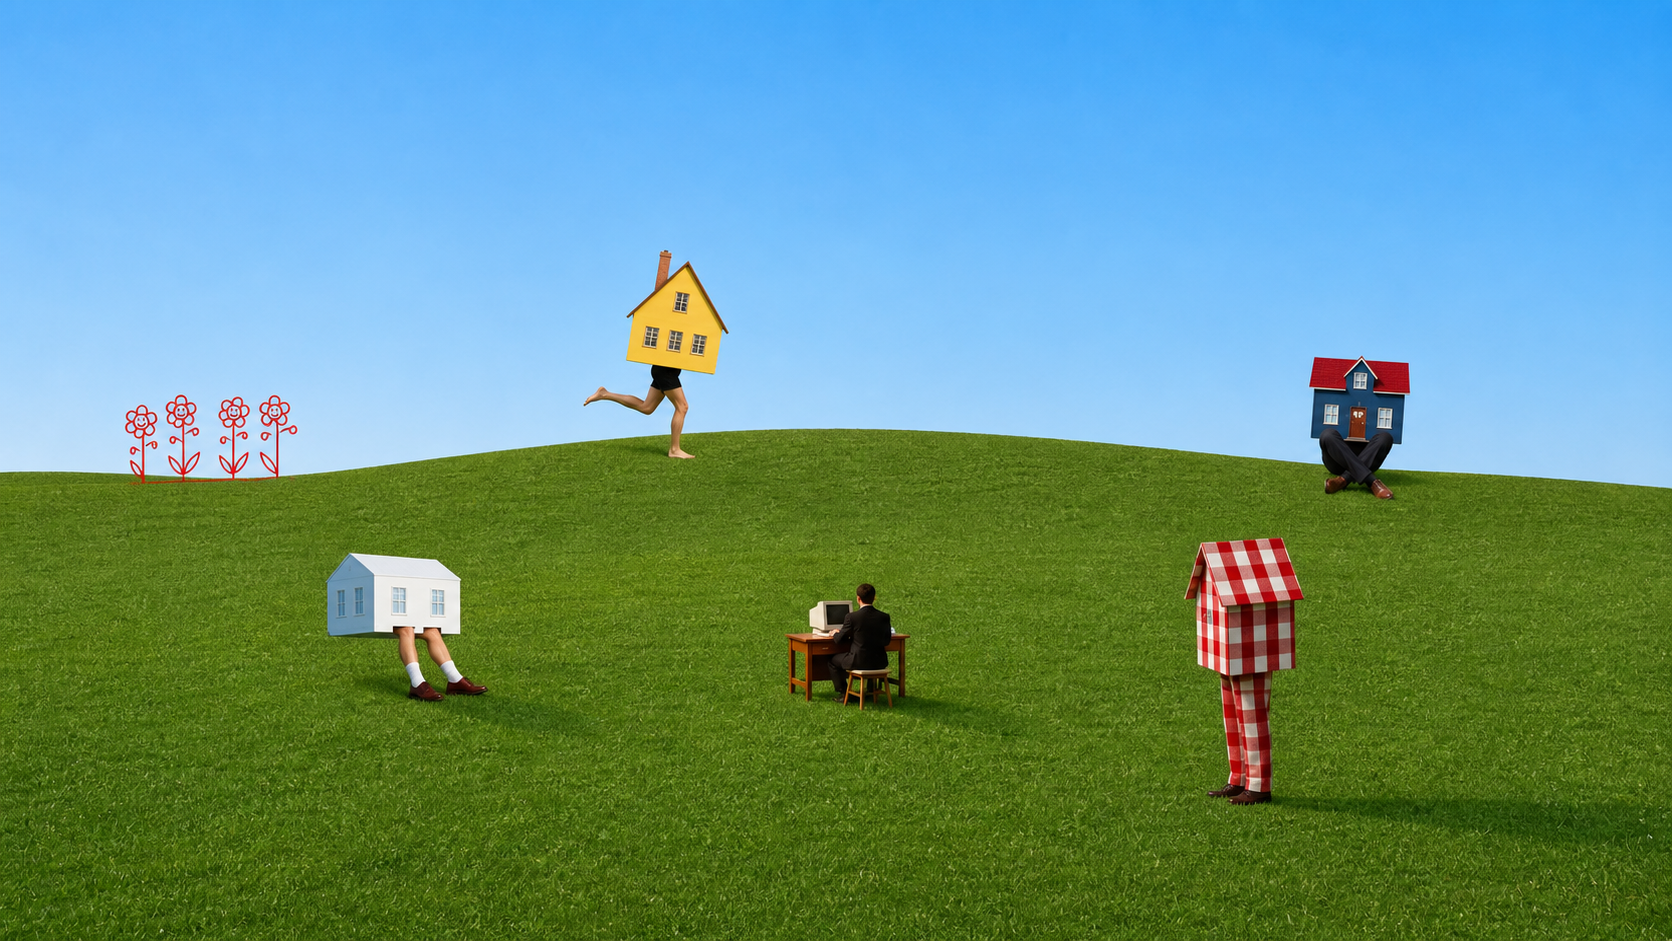
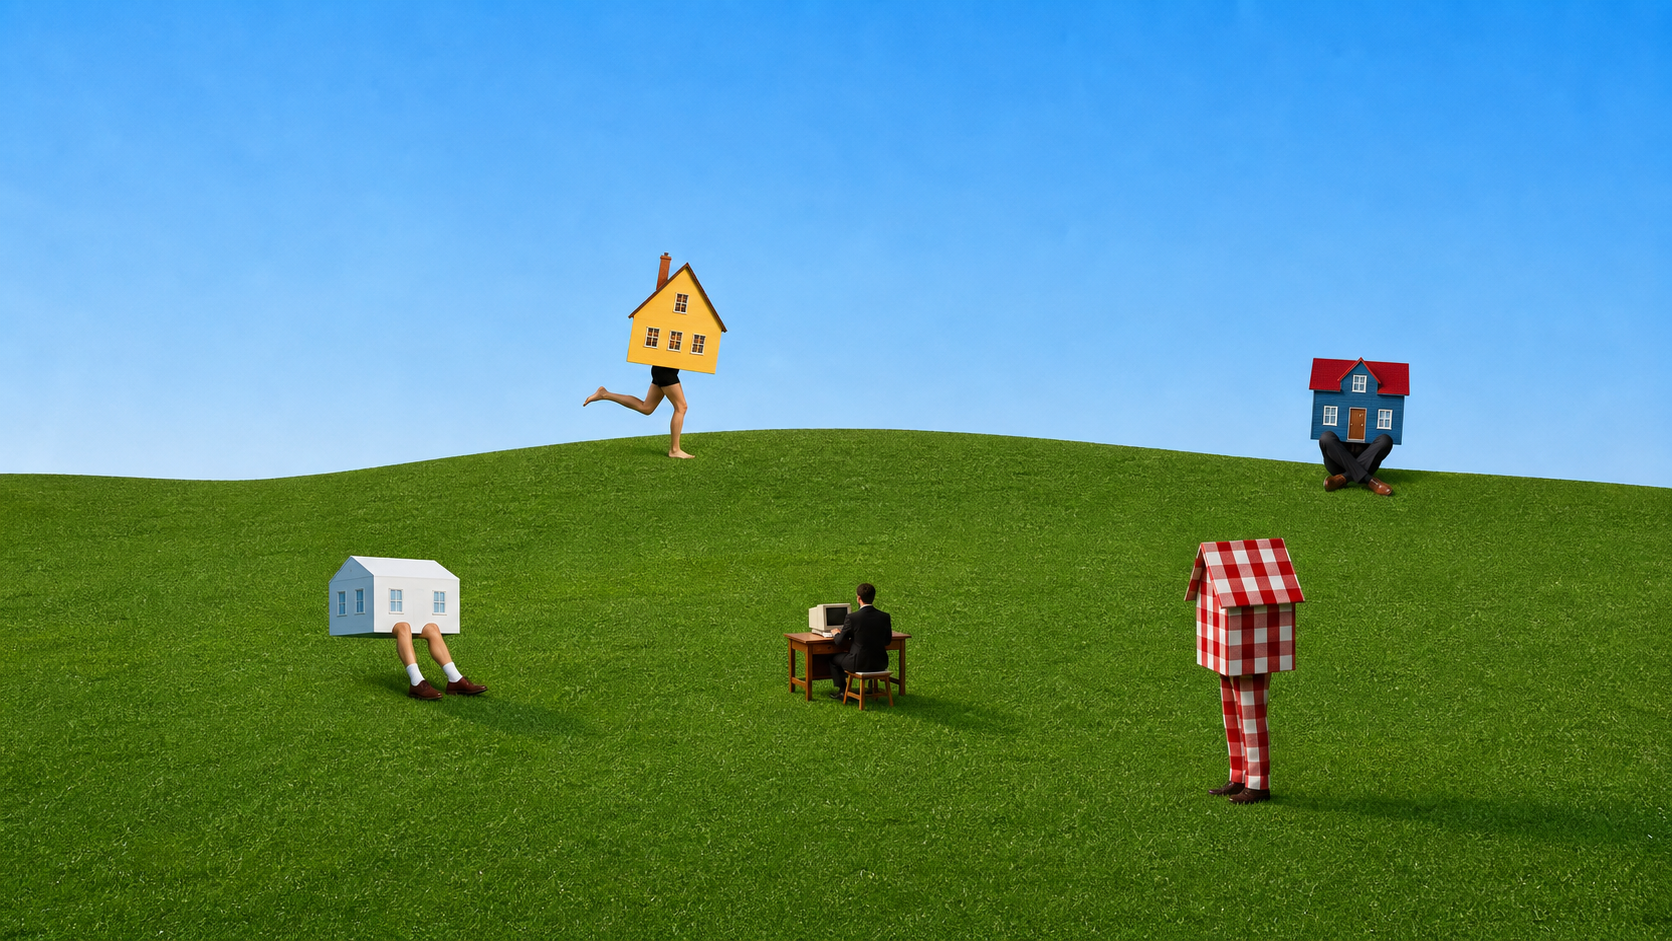
Add swaying ridge flowers

diff --git a/components/HomeScene.tsx b/components/HomeScene.tsx
@@ -1,7 +1,7 @@
 'use client'
 
-import { useEffect, useRef, useState } from 'react'
-import type { PointerEvent } from 'react'
+import { useEffect, useRef } from 'react'
+import type { PointerEvent as ReactPointerEvent } from 'react'
 import Image from '@/components/Image'
 
 const houseTracks = {
@@ -46,25 +46,50 @@ const houseHotspots = [
   },
 ] as const
 
-const flowers = [
-  { id: 0, x: 140, y: 482, scale: 0.92 },
-  { id: 1, x: 182, y: 482, scale: 1.08 },
-  { id: 2, x: 234, y: 482, scale: 1 },
-  { id: 3, x: 276, y: 482, scale: 0.96 },
+const ridgeFlowers = [
+  {
+    src: '/static/images/flowers/flower-1.png',
+    x: 146,
+    y: 377,
+    width: 44,
+    height: 118,
+  },
+  {
+    src: '/static/images/flowers/flower-2.png',
+    x: 182,
+    y: 377,
+    width: 59,
+    height: 118,
+  },
+  {
+    src: '/static/images/flowers/flower-3.png',
+    x: 228,
+    y: 377,
+    width: 56,
+    height: 118,
+  },
+  {
+    src: '/static/images/flowers/flower-4.png',
+    x: 272,
+    y: 377,
+    width: 47,
+    height: 118,
+  },
 ] as const
 
-const restingFlowers = flowers.map(() => ({ x: 0, y: 0, dragging: false, sway: 0 }))
-
-function clamp(value: number, min: number, max: number) {
-  return Math.min(max, Math.max(min, value))
+const flowerSwayOrigin = {
+  x: 232,
+  y: 492,
 }
+
+const flowerSegmentCount = 7
 
 export default function HomeScene() {
   const musicRef = useRef<HTMLAudioElement | null>(null)
   const doorRef = useRef<HTMLAudioElement | null>(null)
   const playbackRef = useRef(0)
-  const dragRef = useRef<{ id: number; startX: number; startY: number } | null>(null)
-  const [flowerPoses, setFlowerPoses] = useState(restingFlowers)
+  const flowerSegmentRefs = useRef<Array<Array<SVGGElement | null>>>([])
+  const flowerFrameRef = useRef<number | null>(null)
 
   useEffect(() => {
     const music = musicRef.current
@@ -73,6 +98,10 @@ export default function HomeScene() {
     return () => {
       music?.pause()
       door?.pause()
+
+      if (flowerFrameRef.current !== null) {
+        window.cancelAnimationFrame(flowerFrameRef.current)
+      }
     }
   }, [])
 
@@ -110,6 +139,90 @@ export default function HomeScene() {
     }
   }
 
+  function moveFlowers(event: ReactPointerEvent<SVGGElement>) {
+    const svg = event.currentTarget.ownerSVGElement
+
+    if (!svg) {
+      return
+    }
+
+    const screenMatrix = svg.getScreenCTM()
+
+    if (!screenMatrix) {
+      return
+    }
+
+    const point = svg.createSVGPoint()
+    point.x = event.clientX
+    point.y = event.clientY
+
+    const cursor = point.matrixTransform(screenMatrix.inverse())
+    const cursorPull = Math.max(-9, Math.min(9, (cursor.x - flowerSwayOrigin.x) * 0.05))
+    const now = window.performance.now()
+
+    if (flowerFrameRef.current !== null) {
+      window.cancelAnimationFrame(flowerFrameRef.current)
+    }
+
+    flowerFrameRef.current = window.requestAnimationFrame(() => {
+      ridgeFlowers.forEach((pose, flowerIndex) => {
+        const segments = flowerSegmentRefs.current[flowerIndex]
+
+        if (!segments) {
+          return
+        }
+
+        const phase = flowerIndex * 0.9
+        const stemX = pose.x + pose.width / 2
+        const stemY = pose.y + pose.height
+        const cursorSway = cursorPull * (0.34 + flowerIndex * 0.04)
+        const breeze = Math.sin(now / 145 + phase) * (2.2 + flowerIndex * 0.22)
+        const bend = Math.sin(now / 105 + phase) * 2.3 + cursorPull * (0.14 + flowerIndex * 0.02)
+        const drift = cursorPull * (0.1 + flowerIndex * 0.02)
+        const rotation = cursorSway + breeze
+
+        segments.forEach((segment, segmentIndex) => {
+          if (!segment) {
+            return
+          }
+
+          const flexibility = (flowerSegmentCount - segmentIndex) / flowerSegmentCount
+          const easing = flexibility * flexibility
+
+          segment.style.transition = 'transform 95ms ease-out'
+          segment.style.transformBox = 'view-box'
+          segment.style.transformOrigin = `${stemX}px ${stemY}px`
+          segment.style.transform = [
+            `translateX(${(drift * easing * 2.2).toFixed(2)}px)`,
+            `rotate(${(rotation * easing).toFixed(2)}deg)`,
+            `skewX(${(bend * easing).toFixed(2)}deg)`,
+          ].join(' ')
+        })
+      })
+    })
+  }
+
+  function resetFlowers() {
+    if (flowerFrameRef.current !== null) {
+      window.cancelAnimationFrame(flowerFrameRef.current)
+    }
+
+    flowerFrameRef.current = window.requestAnimationFrame(() => {
+      flowerSegmentRefs.current.forEach((segments, flowerIndex) => {
+        segments?.forEach((segment, segmentIndex) => {
+          if (!segment) {
+            return
+          }
+
+          segment.style.transition = `transform ${
+            520 + flowerIndex * 70 + segmentIndex * 35
+          }ms cubic-bezier(0.2, 0.9, 0.25, 1)`
+          segment.style.transform = 'translateX(0) rotate(0deg) skewX(0deg)'
+        })
+      })
+    })
+  }
+
   function stopHouseTrack() {
     const music = musicRef.current
     const door = doorRef.current
@@ -128,47 +241,6 @@ export default function HomeScene() {
     }
   }
 
-  function startFlowerDrag(id: number, event: PointerEvent<SVGGElement>) {
-    dragRef.current = { id, startX: event.clientX, startY: event.clientY }
-    event.currentTarget.setPointerCapture(event.pointerId)
-    setFlowerPoses((poses) =>
-      poses.map((pose, index) => (index === id ? { ...pose, dragging: true } : pose))
-    )
-  }
-
-  function moveFlower(event: PointerEvent<SVGGElement>) {
-    const drag = dragRef.current
-
-    if (!drag) {
-      return
-    }
-
-    const x = clamp((event.clientX - drag.startX) * 0.45, -28, 28)
-    const y = clamp((event.clientY - drag.startY) * 0.3, -18, 18)
-
-    setFlowerPoses((poses) =>
-      poses.map((pose, index) =>
-        index === drag.id ? { ...pose, x, y, sway: pose.sway + 1 } : pose
-      )
-    )
-  }
-
-  function endFlowerDrag(event: PointerEvent<SVGGElement>) {
-    const drag = dragRef.current
-
-    if (!drag) {
-      return
-    }
-
-    event.currentTarget.releasePointerCapture(event.pointerId)
-    dragRef.current = null
-    setFlowerPoses((poses) =>
-      poses.map((pose, index) =>
-        index === drag.id ? { x: 0, y: 0, dragging: false, sway: pose.sway + 1 } : pose
-      )
-    )
-  }
-
   return (
     <div className="relative min-h-svh w-full overflow-hidden">
       <div
@@ -179,7 +251,7 @@ export default function HomeScene() {
       />
       <div
         className="absolute inset-0 hidden bg-cover bg-center bg-no-repeat sm:block"
-        style={{ backgroundImage: "url('/static/images/backgrounds/collage-hill-layout.png')" }}
+        style={{ backgroundImage: "url('/static/images/backgrounds/collage-hill-layout.png?v=no-flowers-final')" }}
       />
       <button
         type="button"
@@ -193,70 +265,6 @@ export default function HomeScene() {
       {/* eslint-disable-next-line jsx-a11y/media-has-caption */}
       <audio ref={doorRef} src="/static/audio/open-door.mp3" preload="auto" />
 
-      <svg
-        className="pointer-events-none absolute inset-0 hidden h-full w-full sm:block"
-        preserveAspectRatio="xMidYMid slice"
-        viewBox="0 0 1672 941"
-        aria-hidden="true"
-      >
-        <defs>
-          <filter id="flower-patch-soften" x="-10%" y="-10%" width="120%" height="120%">
-            <feGaussianBlur stdDeviation="1.2" />
-          </filter>
-        </defs>
-        <g filter="url(#flower-patch-soften)">
-          <path d="M108 388H310V464C248 466 180 470 108 474Z" fill="#a4d8f6" />
-          <path d="M108 468C164 467 234 462 310 455V506H108Z" fill="#4f861f" />
-        </g>
-        {flowers.map(({ id, x, y, scale }) => {
-          const pose = flowerPoses[id]
-          const wind = Math.sin(pose.sway * 0.75 + id) * 3
-          const rotate = clamp(pose.x * 0.55 + wind, -18, 18)
-
-          return (
-            <g
-              key={id}
-              className="pointer-events-auto cursor-grab touch-none active:cursor-grabbing"
-              style={{
-                transform: `translate(${x + pose.x}px, ${y + pose.y}px) scale(${scale}) rotate(${rotate}deg)`,
-                transformBox: 'fill-box',
-                transformOrigin: '50% 100%',
-                transition: pose.dragging
-                  ? 'transform 90ms ease-out'
-                  : 'transform 900ms cubic-bezier(0.16, 1, 0.3, 1)',
-              }}
-              onPointerDown={(event) => startFlowerDrag(id, event)}
-              onPointerMove={moveFlower}
-              onPointerUp={endFlowerDrag}
-              onPointerCancel={endFlowerDrag}
-            >
-              <rect x="-24" y="-88" width="48" height="96" fill="transparent" />
-              <g
-                fill="none"
-                stroke="#e22b2d"
-                strokeLinecap="round"
-                strokeLinejoin="round"
-                strokeWidth="3"
-              >
-                <path d="M0 0C-3-22 2-43 0-66" />
-                <path d="M0-10C-15-28-20-43-20-55" />
-                <path d="M0-12C14-28 20-43 20-55" />
-                <path d="M-1-1C-14-13-22-22-25-34C-12-31-4-19-1-1Z" />
-                <path d="M2 0C15-14 23-25 26-38C12-34 5-20 2 0Z" />
-                <circle cx="0" cy="-68" r="7" />
-                <circle cx="-11" cy="-72" r="8" />
-                <circle cx="10" cy="-74" r="8" />
-                <circle cx="-7" cy="-84" r="8" />
-                <circle cx="7" cy="-84" r="8" />
-                <circle cx="0" cy="-77" r="4" />
-                <path d="M-3-55C-13-57-20-61-25-68" />
-                <path d="M5-52C14-54 21-60 26-67" />
-              </g>
-            </g>
-          )
-        })}
-      </svg>
-
       <button
         type="button"
         aria-label="Play red house music"
@@ -269,6 +277,60 @@ export default function HomeScene() {
         preserveAspectRatio="xMidYMid slice"
         viewBox="0 0 1672 941"
       >
+        <defs>
+          {ridgeFlowers.flatMap(({ x, y, width, height }, flowerIndex) =>
+            Array.from({ length: flowerSegmentCount }, (_, segmentIndex) => {
+              const segmentHeight = height / flowerSegmentCount
+
+              return (
+                <clipPath
+                  key={`flower-${flowerIndex}-clip-${segmentIndex}`}
+                  id={`flower-${flowerIndex}-clip-${segmentIndex}`}
+                >
+                  <rect
+                    x={x - 8}
+                    y={y + segmentIndex * segmentHeight - 1}
+                    width={width + 16}
+                    height={segmentHeight + 2}
+                  />
+                </clipPath>
+              )
+            })
+          )}
+        </defs>
+
+        <g
+          className="pointer-events-auto"
+          onPointerEnter={moveFlowers}
+          onPointerMove={moveFlowers}
+          onPointerLeave={resetFlowers}
+        >
+          <rect x="130" y="345" width="210" height="175" fill="transparent" />
+          {ridgeFlowers.map(({ src, x, y, width, height }, index) => (
+            <g key={src}>
+              {Array.from({ length: flowerSegmentCount }, (_, segmentIndex) => (
+                <g
+                  key={`${src}-${segmentIndex}`}
+                  ref={(element) => {
+                    flowerSegmentRefs.current[index] ??= []
+                    flowerSegmentRefs.current[index][segmentIndex] = element
+                  }}
+                >
+                  <image
+                    href={src}
+                    x={x}
+                    y={y}
+                    width={width}
+                    height={height}
+                    preserveAspectRatio="xMidYMid meet"
+                    clipPath={`url(#flower-${index}-clip-${segmentIndex})`}
+                  />
+                </g>
+              ))}
+            </g>
+          ))}
+        </g>
+
         {houseHotspots.map(({ house, label, x, y, width, height }) => (
           <foreignObject
             key={house}